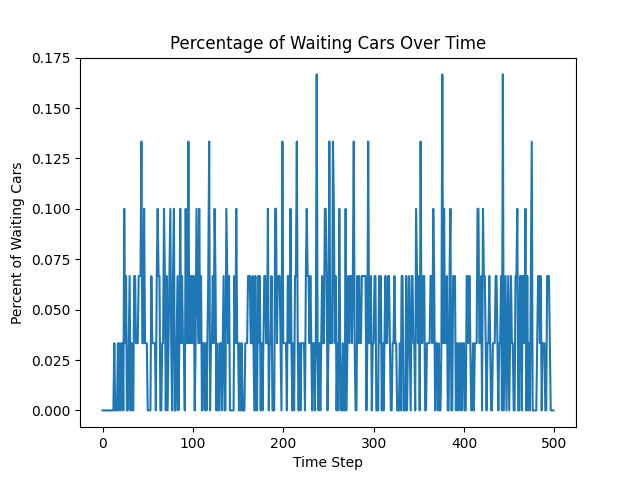
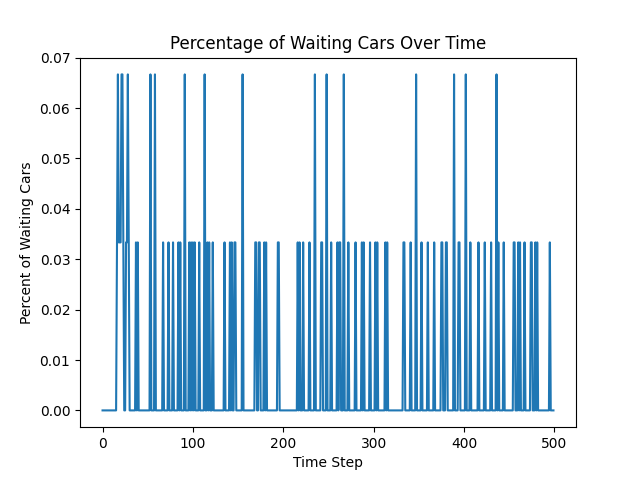
Changed driving lane switching dynamics a bit to make them more realistic.

diff --git a/simulation.py b/simulation.py
@@ -114,11 +114,11 @@ class Simulation:
          for car_index in lane:
             positions[lane_num].append(self.cars[car_index].pos)
       
-      plt.figure(figsize=(10, 3))  # Adjust figure size if needed
+      plt.figure(figsize=(10, 2.2))  # Adjust figure size if needed
 
       # Plot road lines for each lane
       for lane in range(self.num_lanes):
-         plt.plot([0, self.lane_length], [lane * .05, lane * .05], color='gray', linestyle='--', linewidth=1)
+         plt.plot([0, self.lane_length], [lane * .02, lane * .02], color='gray', linestyle='--', linewidth=1)
 
       # Define a color map for each driving type
       
@@ -127,7 +127,7 @@ class Simulation:
          lane_positions = positions[lane]
          driving_types = [self.cars[car_index].technique for car_index in self.lanes[lane]]
          colors = [self.driving_type_colors[driving_type] for driving_type in driving_types]
-         plt.scatter(lane_positions, [lane * .05] * len(lane_positions), color=colors, label=f'Lane {lane}')
+         plt.scatter(lane_positions, [lane * .02] * len(lane_positions), color=colors, label=f'Lane {lane}')
 
       # # Plot cars based on whether they are waiting
       # for lane in range(self.num_lanes):
@@ -140,7 +140,7 @@ class Simulation:
       plt.xlabel('Position')
       plt.ylabel('Lane')
       plt.title(f'{self.num_lanes} Lane Highway with {self.num_cars} Cars at timestep {timestep}')
-      plt.yticks([lane * .05 for lane in range(self.num_lanes)], [f"Lane{lane}" for lane in range(self.num_lanes)])
+      plt.yticks([lane * .02 for lane in range(self.num_lanes)], [f"Lane{lane}" for lane in range(self.num_lanes)])
 
 
       # Show plot
@@ -198,7 +198,7 @@ class Simulation:
             car.waiting_for += 1
          else:
             car.speed = min(car.desired_speed, car.speed + car.accel)
-            # car.waiting_for = 0
+            car.waiting_for /= 2
 
          # make sure the car is still in bounds
          car.check_bounds(self.lane_length)
@@ -408,8 +408,8 @@ class Simulation:
 
 
 if __name__ == "__main__":
-   highway_sim = Simulation(30, 1, [1, 0, 0],'test_data', 3, 125)
-   highway_sim.run(500, False, False)
+   highway_sim = Simulation(30, 1, [1, 0, 0],'test.csv', 3, 125)
+   highway_sim.run(500, True, False)
    
    
    
